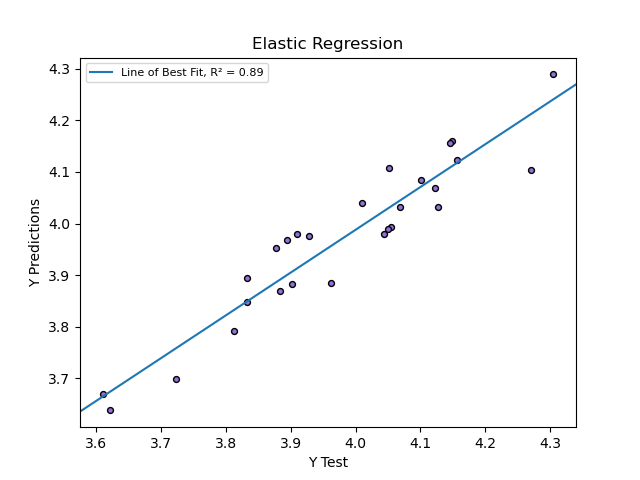
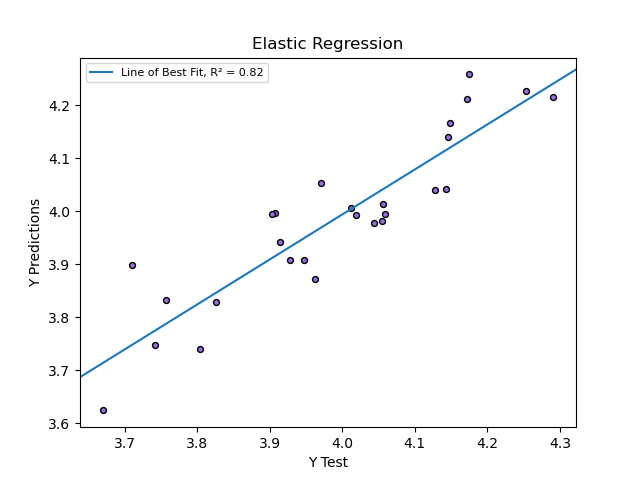
Making BIG changes

diff --git a/code/model.py b/code/model.py
@@ -21,6 +21,12 @@ class RegressionModel():
         self.y_train = self.flatten_vector(y_train)
         self.x_test = x_test
         self.y_test = self.flatten_vector(y_test)
+        self.model = None
+        self.y_test_predictions = None
+        self.y_train_predictions = None
+        self.r2 = None
+        self.test_error = None
+        self.train_error = None
 
     @abstractmethod 
     def cross_validation(self):
@@ -29,6 +35,21 @@ class RegressionModel():
     @abstractmethod
     def evaluation(self):
         pass
+
+    def set_variables(self, model):
+        # Set the model.
+        self.model = model
+
+        # Receive the test and train predictions from the model.
+        self.y_test_predictions = self.model.predict(self.x_test)
+        self.y_train_predictions = self.model.predict(self.x_train)
+
+        # Receive the r2 score of the model.
+        self.r2 = r2_score(self.y_test, self.y_test_predictions)
+
+        # Calculate the model percentage error.
+        self.test_error = self.get_error_percentage(self.y_test, self.y_test_predictions)
+        self.train_error = self.get_error_percentage(self.y_train, self.y_train_predictions)
 
     def flatten_vector(self, data):
         # Ensure the data is of numpy array type.
@@ -124,24 +145,16 @@ class LinearRegressionModel(RegressionModel):
         super().__init__(x_train, y_train, x_test, y_test)
         # Create the Linear Regression Model.
         self.model = self.cross_validation()
-
-        # Receive the predictions from the model.
-        self.test_predictions = self.model.predict(self.x_test)
-        self.train_predictions = self.model.predict(self.x_train)
-
-        # Declare the r2 score and slope-intercept variables.
-        self.r2 = r2_score(self.y_test, self.test_predictions)
-        self.p = super().get_slope_intercept(self.test_predictions)[0]
-
-        self.test_error = super().get_error_percentage(self.y_test, self.test_predictions)
-        self.train_error = super().get_error_percentage(self.y_train, self.train_predictions)
+        # Set the variables declared in the parent class.
+        super().set_variables(self.model)
 
     def evaluation(self):
         # Receive the performance results of the Linear Regression Model.
-        super().get_performance_results('Linear', self.test_predictions, self.r2)
+        super().get_performance_results('Linear', self.y_test_predictions, self.r2)
+
         # Display comparisons between the predicted y_test values and the actual y_test values.
-        super().make_comparisons(self.test_predictions)
-        super().make_accurate_comparisons(self.test_predictions)
+        super().make_comparisons(self.y_test_predictions)
+        super().make_accurate_comparisons(self.y_test_predictions)
 
     def cross_validation(self):
         # Creating a KFold object with 5 splits.
@@ -169,18 +182,16 @@ class LassoRegressionModel(RegressionModel):
         super().__init__(x_train, y_train, x_test, y_test)
         # Create the Lasso Regression Model.
         self.model = self.cross_validation()
-
-        # Receive the predictions, r2 score, and slope-intercept from the model.
-        self.predictions = self.model.predict(self.x_test)
-        self.r2 = r2_score(self.y_test, self.predictions)
-        self.p = super().get_slope_intercept(self.predictions)[0]
-
+        # Set the variables declared in the parent class.
+        super().set_variables(self.model)
+        
     def evaluation(self):
         # Receive the performance results of the Lasso Regression Model.
-        super().get_performance_results('Lasso', self.predictions, self.r2)
+        super().get_performance_results('Lasso', self.y_test_predictions, self.r2)
+
         # Display comparisons between the predicted y_test values and the actual y_test values.
-        super().make_comparisons(self.predictions)
-        super().make_accurate_comparisons(self.predictions)
+        super().make_comparisons(self.y_test_predictions)
+        super().make_accurate_comparisons(self.y_test_predictions)
 
     def cross_validation(self):
         # Define the model.
@@ -197,18 +208,16 @@ class ElasticRegressionModel(RegressionModel):
         super().__init__(x_train, y_train, x_test, y_test)
         # Create the Elastic Net Regression Model.
         self.model = self.cross_validation()
-
-        # Receive the predictions, r2 score, and slope-intercept from the model.
-        self.predictions = self.model.predict(self.x_test)
-        self.r2 = r2_score(self.y_test, self.predictions)
-        self.p = super().get_slope_intercept(self.predictions)[0]
+        # Set the variables declared in the parent class.
+        super().set_variables(self.model)
 
     def evaluation(self):
         # Receive the performance results of the Lasso Regression Model.
-        super().get_performance_results('Elastic', self.predictions, self.r2)
+        super().get_performance_results('Elastic', self.y_test_predictions, self.r2)
+
         # Display comparisons between the predicted y_test values and the actual y_test values.
-        super().make_comparisons(self.predictions)
-        super().make_accurate_comparisons(self.predictions)
+        super().make_comparisons(self.y_test_predictions)
+        super().make_accurate_comparisons(self.y_test_predictions)
 
     def cross_validation(self):
         # Define model.

diff --git a/code/main.py b/code/main.py
@@ -13,6 +13,7 @@ from sklearn.linear_model import LinearRegression
 from sklearn.metrics import mean_squared_error, r2_score
 from sklearn.feature_selection import VarianceThreshold
 import random
+from tabulate import tabulate
 
 def display_corr(df):
     # Plot a "pretty" version of the correlation matrix 
@@ -37,6 +38,20 @@ def display_corr(df):
         square=True, linewidths=.5, cbar_kws={"shrink": .5}, annot=True)
 
     plt.savefig("heatmap.png", dpi=300, bbox_inches='tight')
+    plt.show()
+
+def compare_model_errors(linear, lasso, elastic):
+    train_error = [linear.train_error, lasso.train_error, elastic.train_error]
+    test_error = [linear.test_error, lasso.test_error, elastic.test_error]
+
+    col = {'Train Error': train_error, 'Test Error': test_error}
+    models = ['Linear', 'Lasso', 'Elastic']
+
+    df = pd.DataFrame(data=col, index=models)
+    print(tabulate(df, headers="keys", showindex=True, tablefmt="psql"))
+
+    df.plot(kind='bar')
+    plt.savefig("comparisonplot.png", dpi=300, bbox_inches='tight')
     plt.show()
 
 def main():
@@ -77,17 +92,16 @@ def main():
     # Apply and visualize Linear Regression Performance.
     linear = LinearRegressionModel(x_train, y_train, x_test, y_test)
     linear.evaluation()
-    
-    print(f'Train Error Percentage: {linear.train_error}%')
-    print(f'Test Error Percentage: {linear.test_error}%')
 
     # Apply and visualize Lasso Regression Performance.
-    #lasso = LassoRegressionModel(x_train, y_train, x_test, y_test)
-    #lasso.evaluation()
+    lasso = LassoRegressionModel(x_train, y_train, x_test, y_test)
+    lasso.evaluation()
 
     # Apply and visualize Elastic Net Regression Performance.
-    #elastic = ElasticRegressionModel(x_train, y_train, x_test, y_test)
-    #elastic.evaluation()
+    elastic = ElasticRegressionModel(x_train, y_train, x_test, y_test)
+    elastic.evaluation()
+
+    compare_model_errors(linear, lasso, elastic)
 
 if __name__ == '__main__':
     try:
